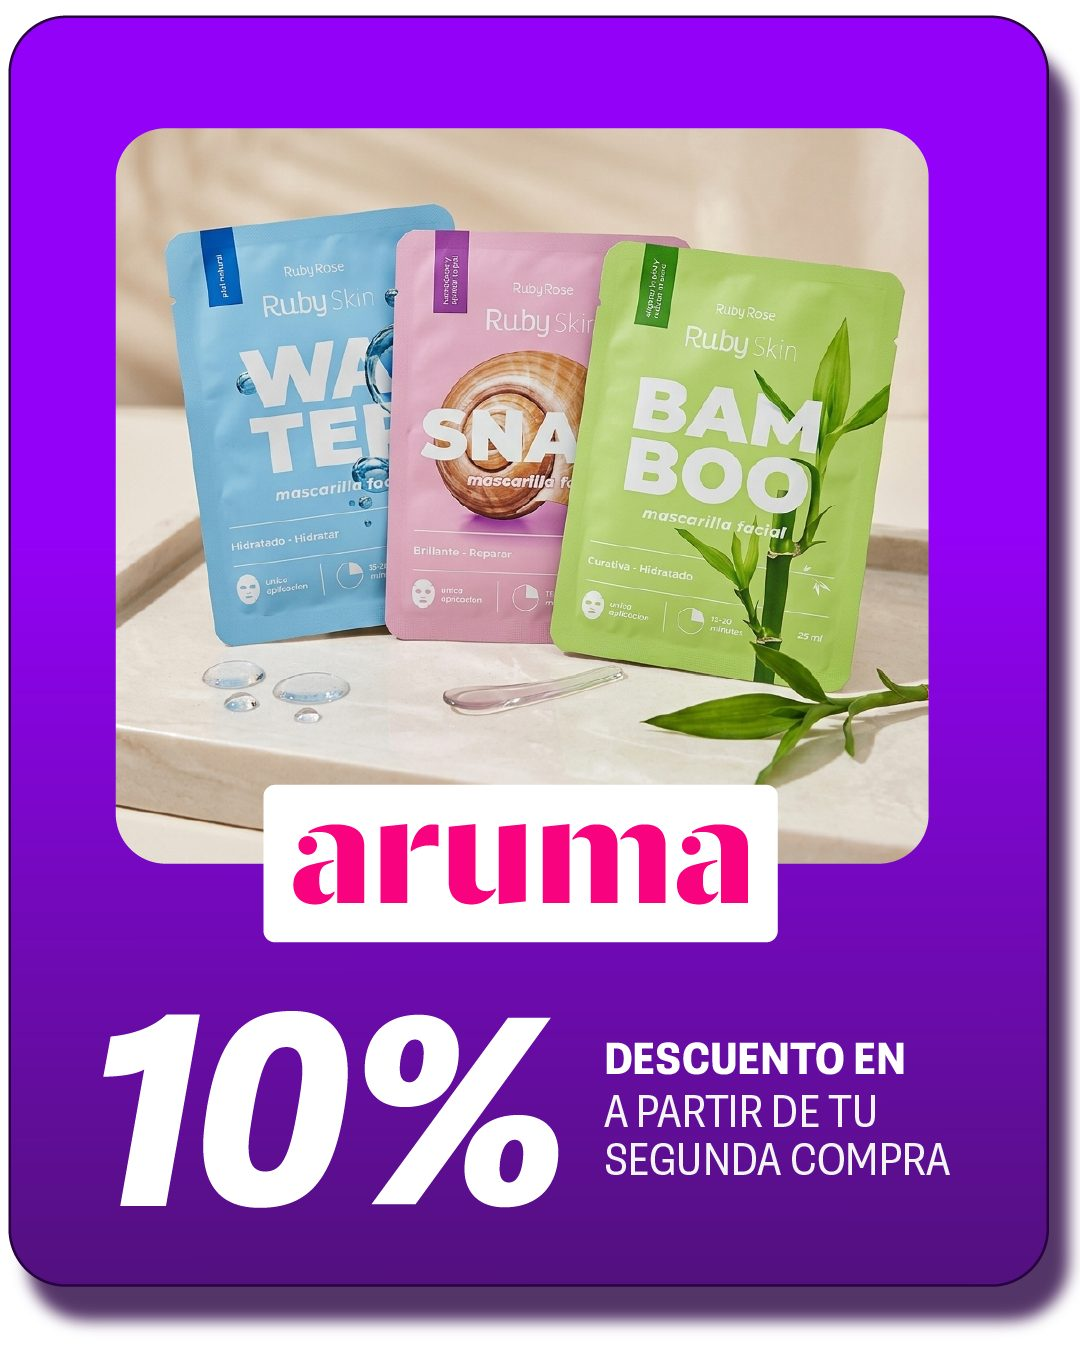
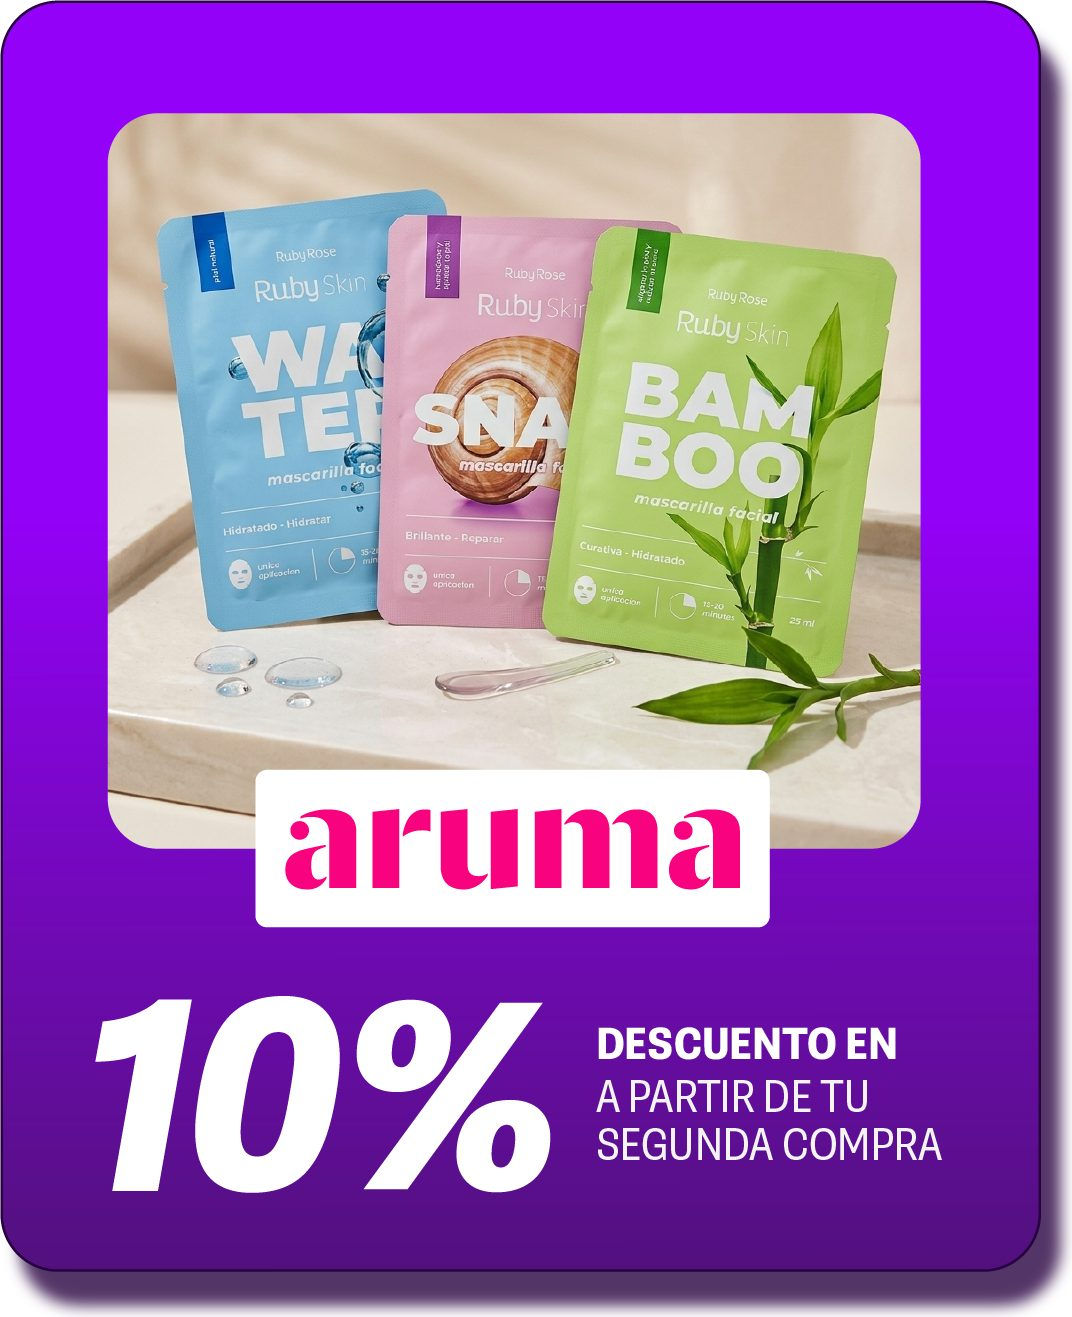
Quita el marco blanco y evita que la promocion se corte
Las imagenes vienen en un lienzo blanco: la sincronizacion lo recorta. La
tarjeta ahora se limita tambien por el alto, para pantallas cortas.

diff --git a/index.html b/index.html
@@ -72,7 +72,7 @@
   .lamina {
     flex: 0 0 var(--lamina-px, var(--ancho-lamina));
     scroll-snap-align: center;
-    border-radius: 16px;
+    border-radius: var(--radio-lamina, 14px);  /* igual que las esquinas del diseño */
     overflow: hidden;
     background: transparent;
     opacity: .4;
@@ -235,9 +235,22 @@
       getComputedStyle(document.documentElement).getPropertyValue("--ancho-lamina")
     ) / 100;
     if (!disponible || !proporcion) return;
-    var lamina = Math.round(disponible * proporcion);
+
+    // La tarjeta se limita por lo ancho y también por lo alto: en pantallas cortas manda el
+    // alto, para que la promoción nunca salga cortada.
+    var img = carrusel.querySelector("img");
+    var forma = img && img.naturalWidth ? img.naturalHeight / img.naturalWidth : 1.25;
+    var alto = carrusel.parentElement.clientHeight
+      - (controles.hidden ? 0 : controles.offsetHeight + 10)
+      - (document.querySelector(".pie").offsetHeight + 14)
+      - 8;
+
+    var lamina = Math.round(Math.min(disponible * proporcion, alto / forma));
+    if (lamina < 120) lamina = Math.round(disponible * proporcion);
+
     var sobra = Math.max(0, (disponible - lamina) / 2);
     carrusel.style.setProperty("--lamina-px", lamina + "px");
+    carrusel.style.setProperty("--radio-lamina", Math.round(lamina * 0.04) + "px");
     carrusel.style.paddingLeft = sobra + "px";
     carrusel.style.paddingRight = sobra + "px";
   }
@@ -351,7 +364,7 @@
       laminas = lista.length;
       // Cuando cada imagen termina de cargar puede cambiar el alto: se vuelve a medir.
       Array.prototype.forEach.call(carrusel.querySelectorAll("img"), function (img) {
-        img.addEventListener("load", ajustarAlto);
+        img.addEventListener("load", function () { ajustarMargenes(); ajustarAlto(); });
       });
       ajustarMargenes();
       if (laminas === 1) {

diff --git a/sincronizar-imagenes.py b/sincronizar-imagenes.py
@@ -23,7 +23,7 @@ import sys
 from pathlib import Path
 
 import requests
-from PIL import Image
+from PIL import Image, ImageChops
 
 LIGA_CARPETA = (
     "https://fitnessparatodoss-my.sharepoint.com/:f:/g/personal/marketing_fpt_com_mx/"
@@ -68,12 +68,26 @@ def listar(sesion):
     return sorted(archivos, key=lambda it: it["name"].lower())
 
 
-def guardar(sesion, archivo, destino):
-    """Baja una imagen, la reduce a 1080 px de ancho y la guarda como JPG."""
+def recortar_blanco(im):
+    """Quita el marco blanco que traen los archivos de diseño.
+
+    Sin esto se ve un contorno blanco alrededor de cada promoción, porque el cupón viene
+    centrado en un lienzo blanco más grande.
+    """
+    blanco = Image.new("RGB", im.size, (255, 255, 255))
+    mancha = ImageChops.difference(im, blanco).convert("L").point(lambda p: 255 if p > 12 else 0)
+    caja = mancha.getbbox()
+    return im.crop(caja) if caja else im
+
+
+def guardar(sesion, archivo, destino, recortar=True):
+    """Baja una imagen, le quita el marco blanco, la reduce a 1080 px y la guarda como JPG."""
     datos = sesion.get(archivo["@content.downloadUrl"], timeout=600).content
     im = Image.open(io.BytesIO(datos))
     if im.mode != "RGB":
         im = im.convert("RGB")
+    if recortar:
+        im = recortar_blanco(im)
     if im.width > ANCHO_MAX:
         im = im.resize((ANCHO_MAX, round(im.height * ANCHO_MAX / im.width)), Image.LANCZOS)
     im.save(destino, "JPEG", quality=CALIDAD, optimize=True, progressive=True)
@@ -96,7 +110,7 @@ def main():
     # El fondo solo se reemplaza cuando hay un archivo FONDO en la carpeta. Si no lo hay,
     # se deja el que ya está publicado: así una carpeta sin fondo no deja la página sin él.
     if fondo:
-        guardar(sesion, fondo, FONDO)
+        guardar(sesion, fondo, FONDO, recortar=False)
         print(f"{fondo['name']} -> fondo.jpg")
     elif FONDO.exists():
         print("Sin archivo FONDO en OneDrive: se conserva el fondo publicado.")
